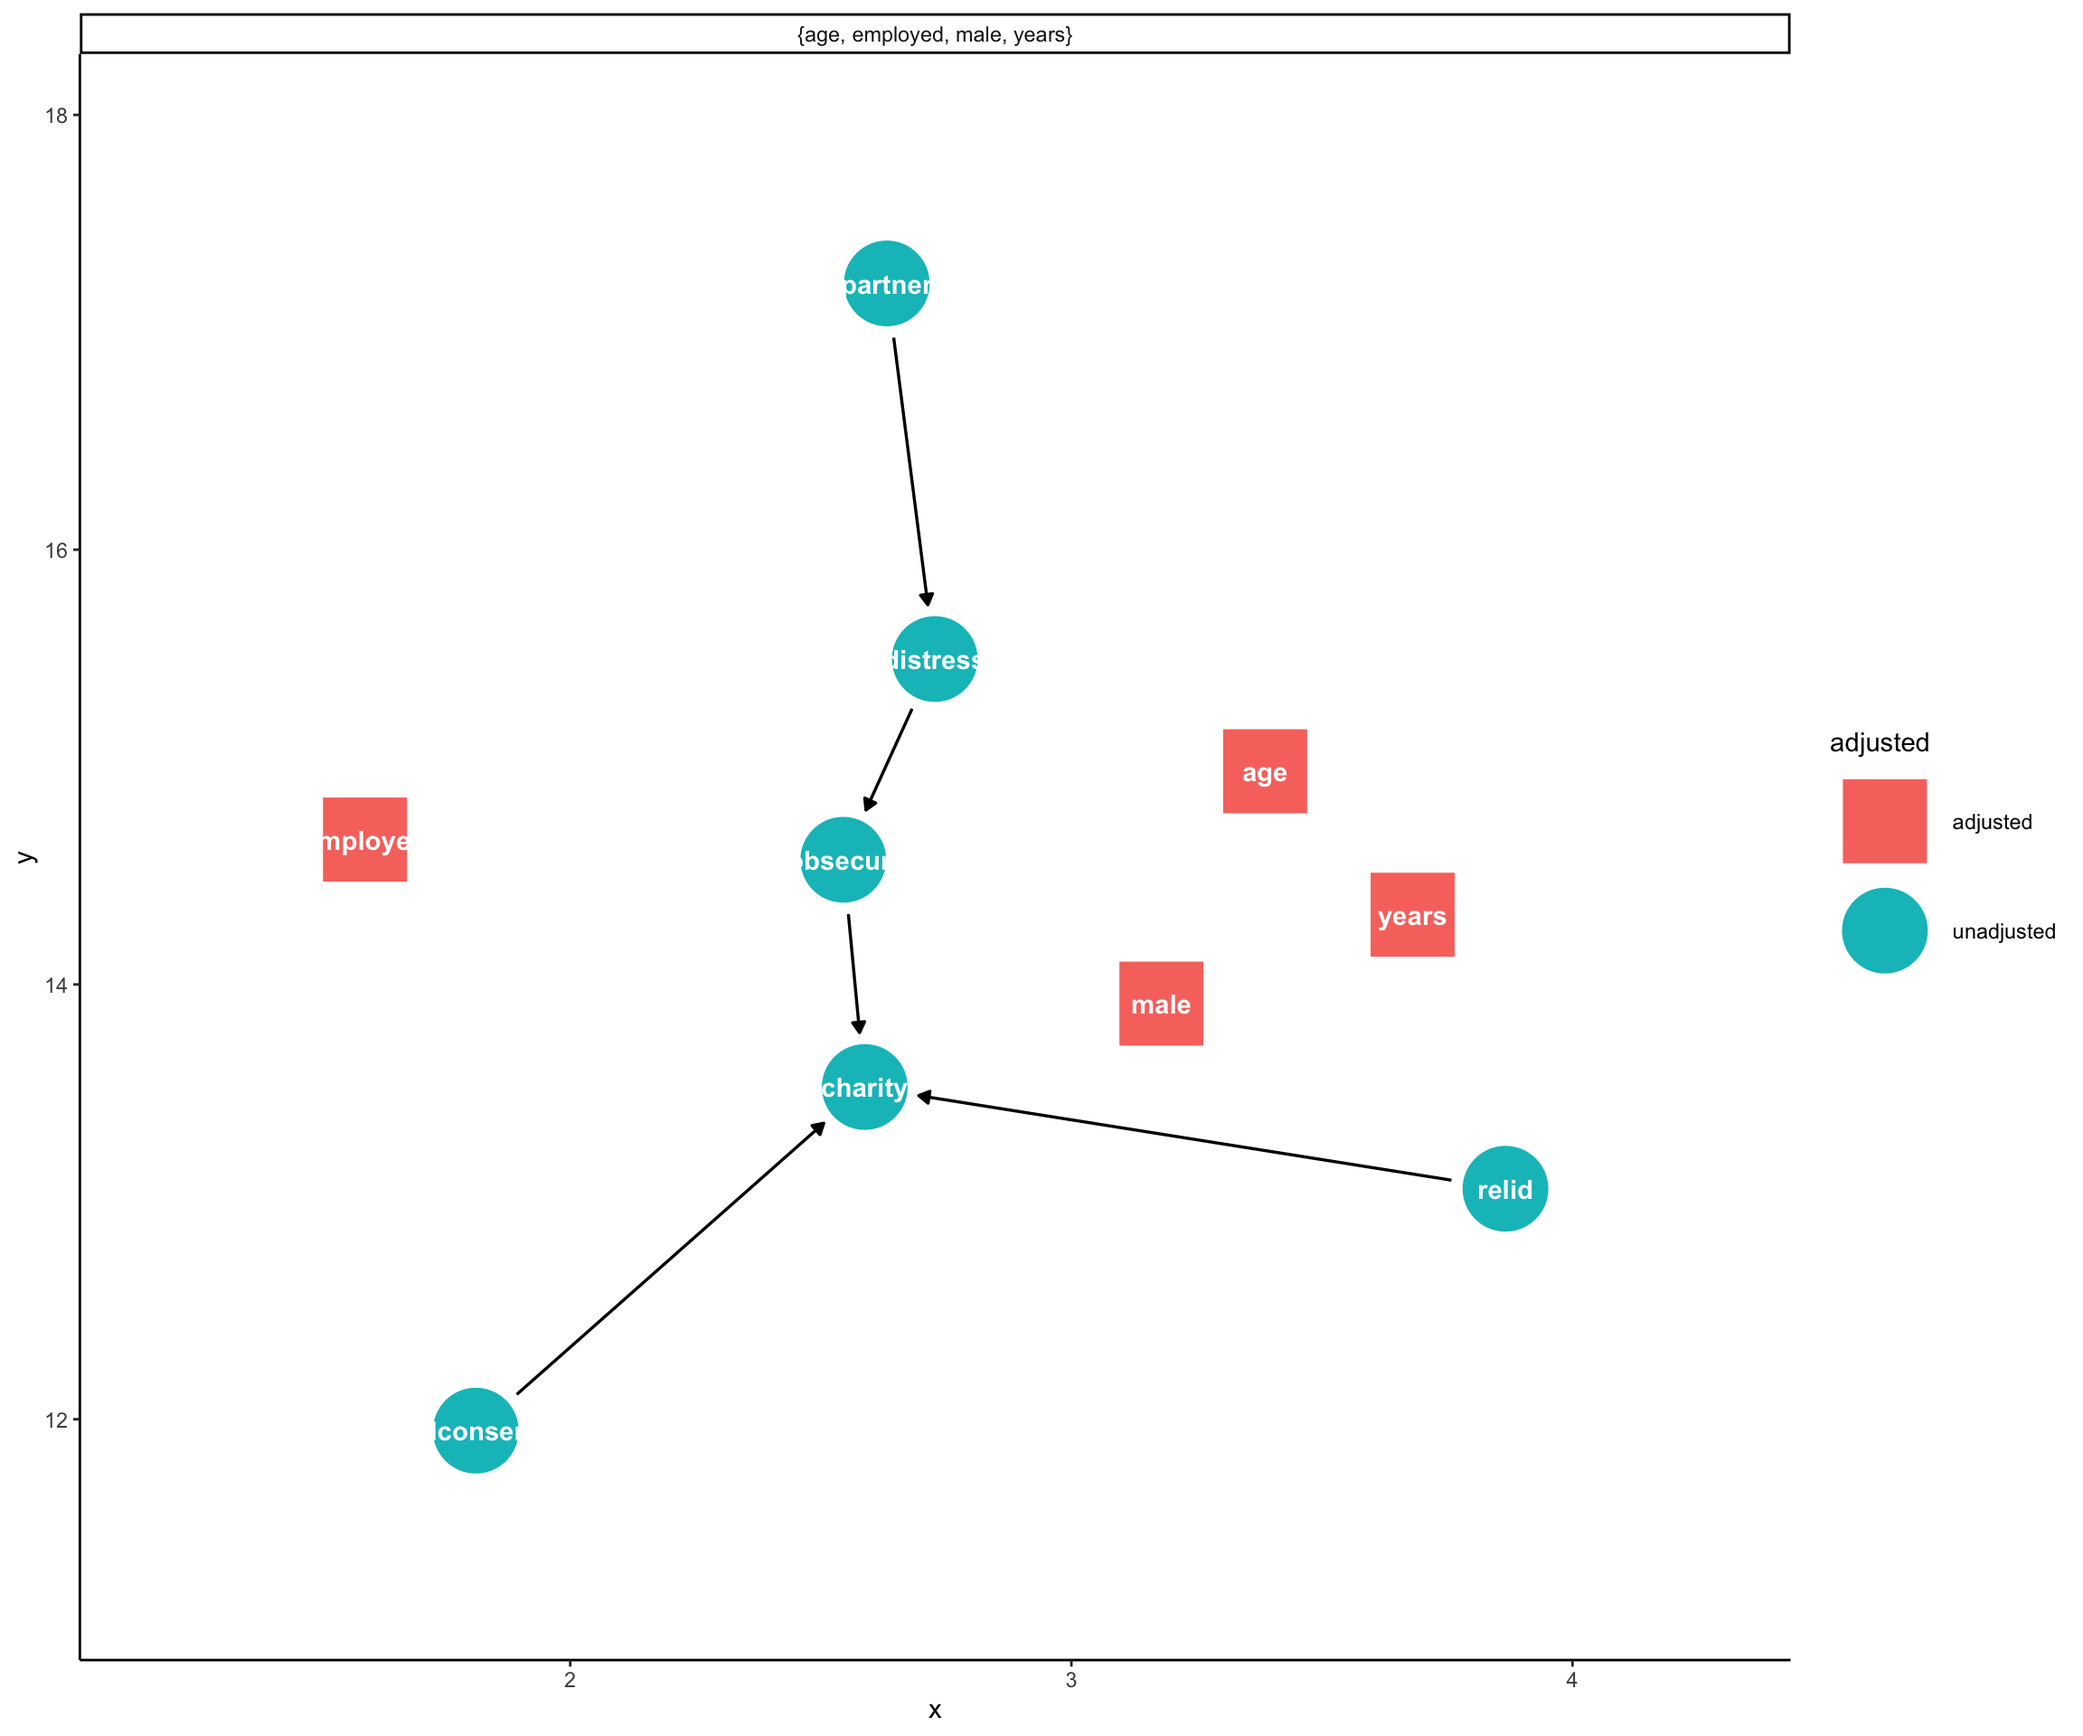
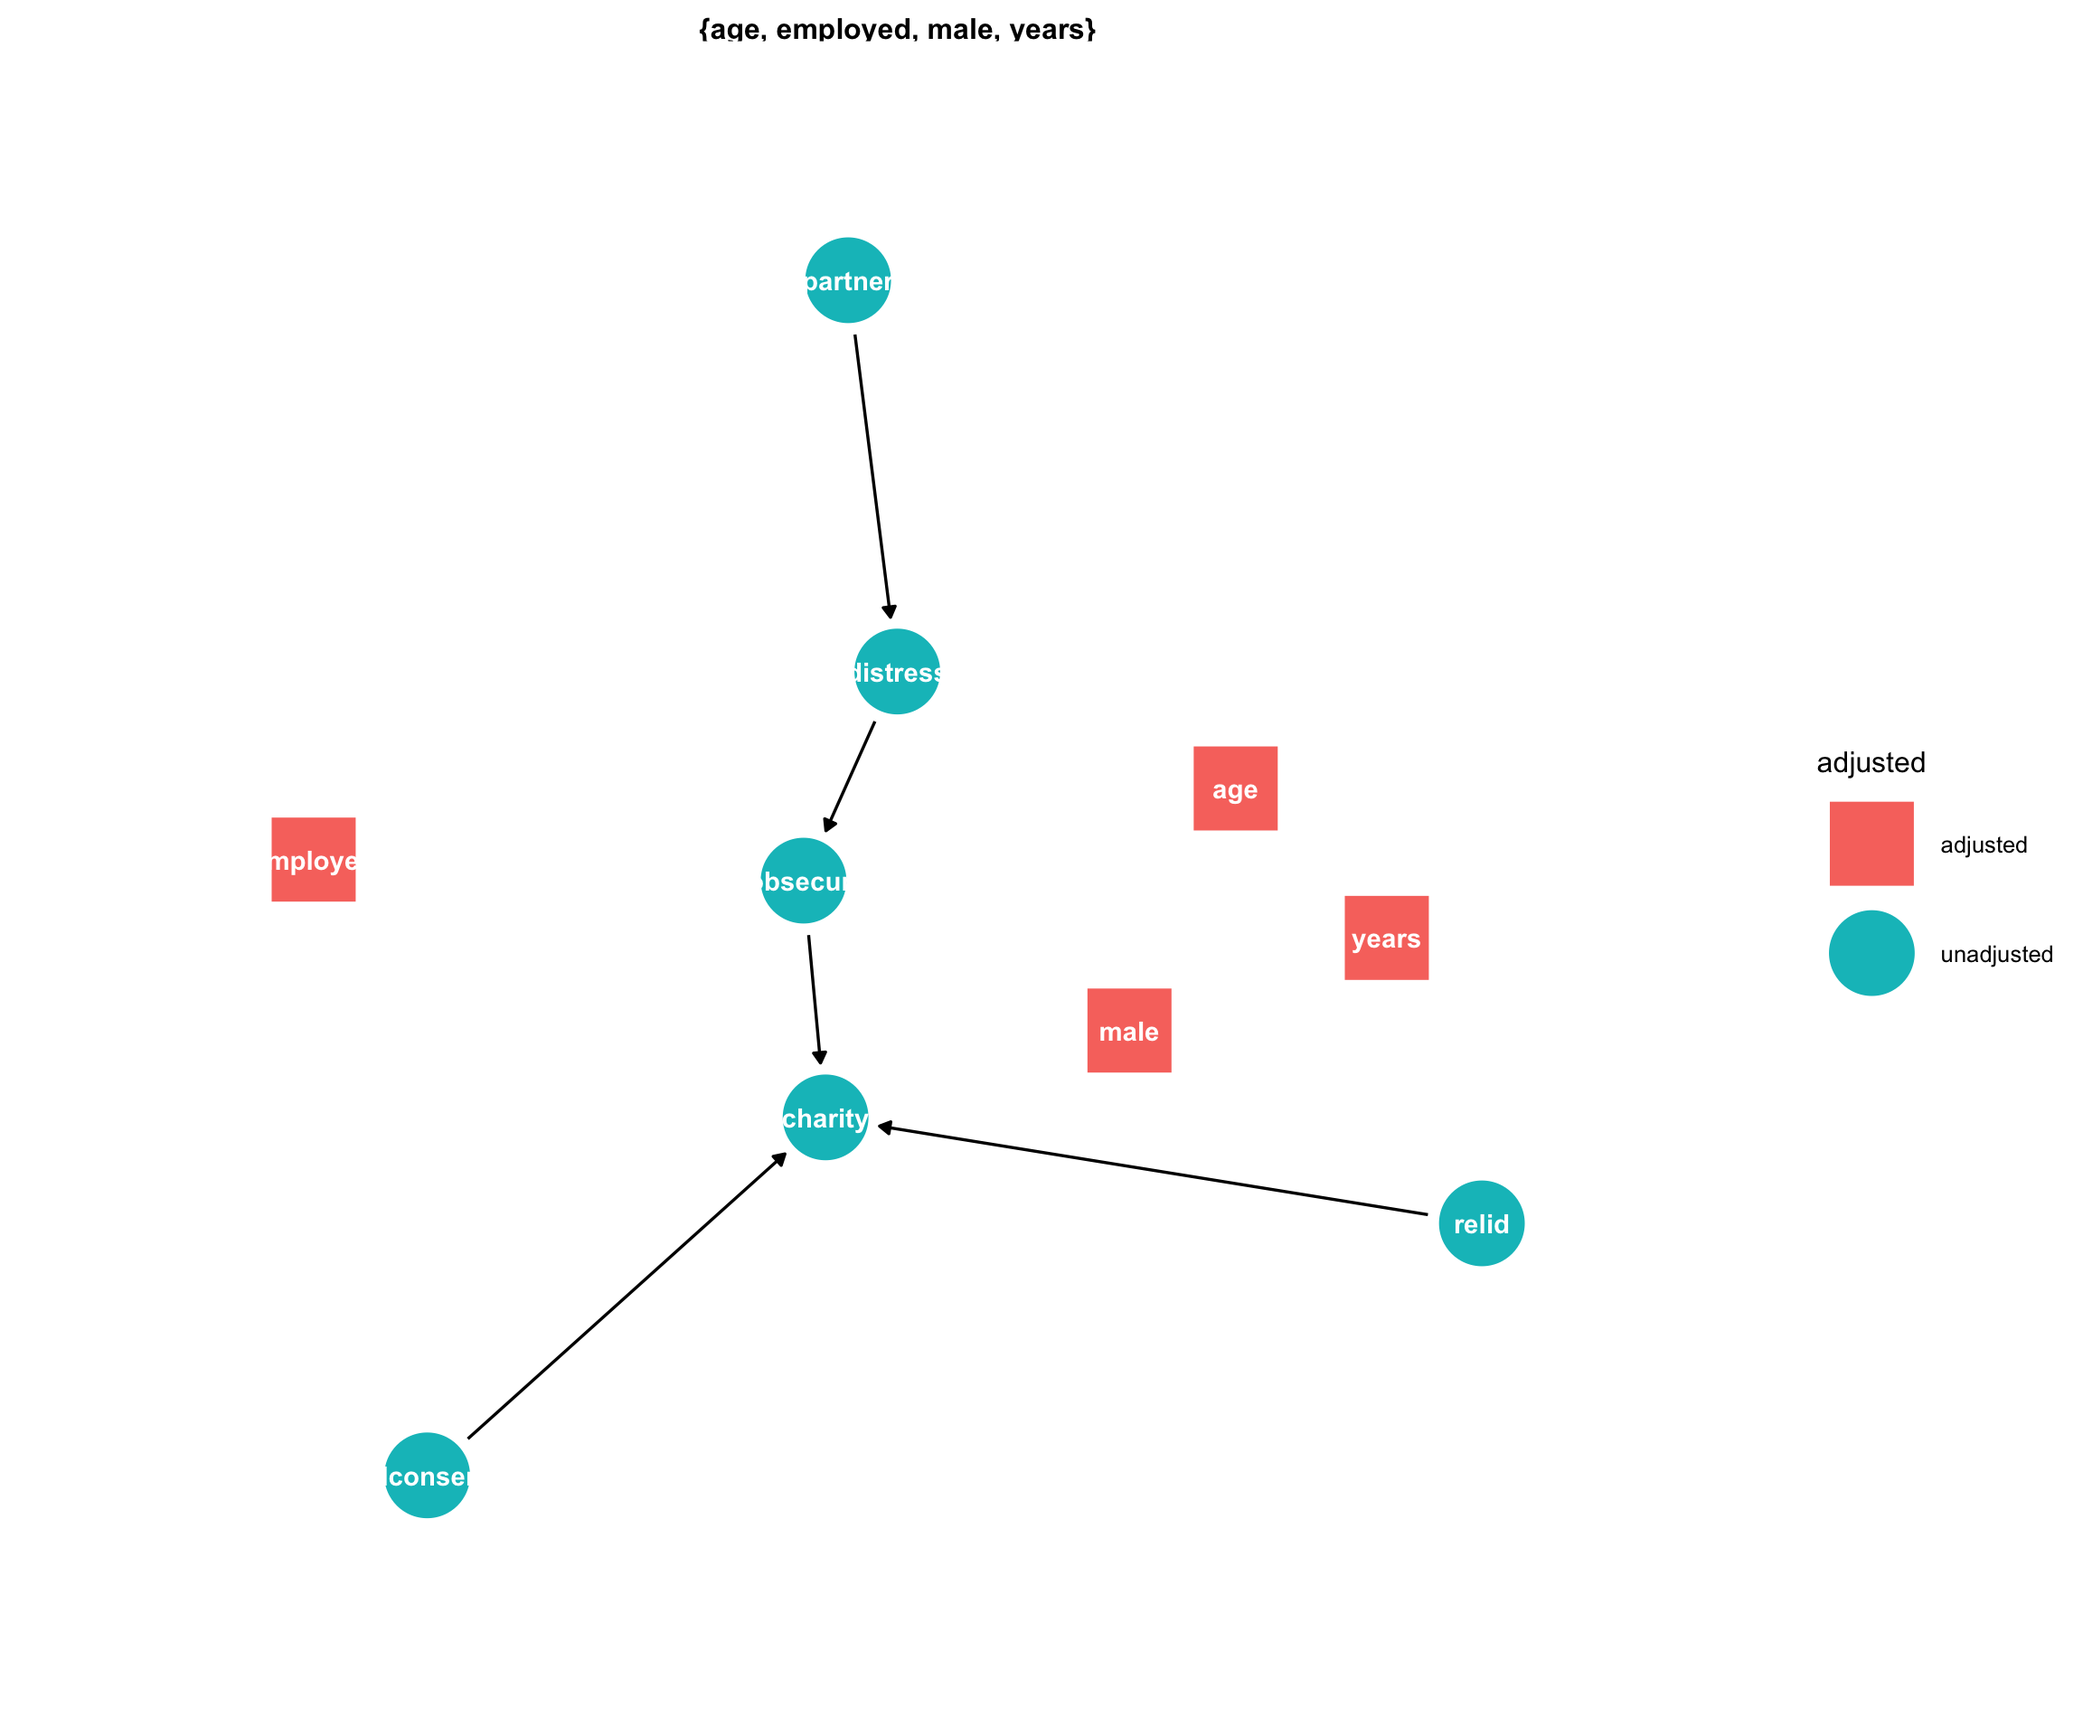
update

diff --git a/_posts/12_1/lecture_12.html b/_posts/12_1/lecture_12.html
@@ -1835,7 +1835,7 @@ Show code
   <span class='op'>)</span>,
   coords <span class='op'>=</span> <span class='va'>coords</span>
 <span class='op'>)</span>
-<span class='fu'>ggdag</span><span class='op'>(</span><span class='va'>bladder_dag</span>, text <span class='op'>=</span> <span class='cn'>FALSE</span>, use_labels <span class='op'>=</span> <span class='st'>"label"</span><span class='op'>)</span>
+<span class='fu'>ggdag</span><span class='op'>(</span><span class='va'>bladder_dag</span>, text <span class='op'>=</span> <span class='cn'>FALSE</span>, use_labels <span class='op'>=</span> <span class='st'>"label"</span>, node_size <span class='op'>=</span> <span class='fl'>20</span><span class='op'>)</span> <span class='op'>+</span> <span class='fu'>theme_dag_blank</span><span class='op'>(</span><span class='op'>)</span>
 </code></pre>
 </div>
 </details>
@@ -2492,7 +2492,7 @@ $ Age           &lt;dbl&gt; 38.82820, 39.70431, 41.03765, 42.036…</code></pre>
   <span class='op'>)</span> <span class='op'>%&gt;%</span>
   <span class='fu'><a href='https://rdrr.io/pkg/ggdag/man/tidy_dagitty.html'>tidy_dagitty</a></span><span class='op'>(</span>layout <span class='op'>=</span> <span class='st'>"nicely"</span><span class='op'>)</span>
 
-<span class='fu'>ggdag</span><span class='fu'>::</span><span class='fu'><a href='https://rdrr.io/pkg/ggdag/man/adjustment_sets.html'>ggdag_adjustment_set</a></span><span class='op'>(</span><span class='va'>dg</span><span class='op'>)</span>
+<span class='fu'>ggdag</span><span class='fu'>::</span><span class='fu'><a href='https://rdrr.io/pkg/ggdag/man/adjustment_sets.html'>ggdag_adjustment_set</a></span><span class='op'>(</span><span class='va'>dg</span><span class='op'>)</span> <span class='op'>+</span> <span class='fu'><a href='https://rdrr.io/pkg/ggdag/man/theme_dag_blank.html'>theme_dag_blank</a></span><span class='op'>(</span><span class='op'>)</span>
 </code></pre>
 </div>
 <p><img src="lecture_12_files/figure-html5/dag-1.png" width="1152" /></p>

diff --git a/docs/posts/12_1/index.html b/docs/posts/12_1/index.html
@@ -2500,7 +2500,7 @@ Show code
   <span class='op'>)</span>,
   coords <span class='op'>=</span> <span class='va'>coords</span>
 <span class='op'>)</span>
-<span class='fu'>ggdag</span><span class='op'>(</span><span class='va'>bladder_dag</span>, text <span class='op'>=</span> <span class='cn'>FALSE</span>, use_labels <span class='op'>=</span> <span class='st'>"label"</span><span class='op'>)</span>
+<span class='fu'>ggdag</span><span class='op'>(</span><span class='va'>bladder_dag</span>, text <span class='op'>=</span> <span class='cn'>FALSE</span>, use_labels <span class='op'>=</span> <span class='st'>"label"</span>, node_size <span class='op'>=</span> <span class='fl'>20</span><span class='op'>)</span> <span class='op'>+</span> <span class='fu'>theme_dag_blank</span><span class='op'>(</span><span class='op'>)</span>
 </code></pre>
 </div>
 </details>
@@ -3157,7 +3157,7 @@ $ Age           &lt;dbl&gt; 38.82820, 39.70431, 41.03765, 42.036…</code></pre>
   <span class='op'>)</span> <span class='op'>%&gt;%</span>
   <span class='fu'><a href='https://rdrr.io/pkg/ggdag/man/tidy_dagitty.html'>tidy_dagitty</a></span><span class='op'>(</span>layout <span class='op'>=</span> <span class='st'>"nicely"</span><span class='op'>)</span>
 
-<span class='fu'>ggdag</span><span class='fu'>::</span><span class='fu'><a href='https://rdrr.io/pkg/ggdag/man/adjustment_sets.html'>ggdag_adjustment_set</a></span><span class='op'>(</span><span class='va'>dg</span><span class='op'>)</span>
+<span class='fu'>ggdag</span><span class='fu'>::</span><span class='fu'><a href='https://rdrr.io/pkg/ggdag/man/adjustment_sets.html'>ggdag_adjustment_set</a></span><span class='op'>(</span><span class='va'>dg</span><span class='op'>)</span> <span class='op'>+</span> <span class='fu'><a href='https://rdrr.io/pkg/ggdag/man/theme_dag_blank.html'>theme_dag_blank</a></span><span class='op'>(</span><span class='op'>)</span>
 </code></pre>
 </div>
 <p><img src="lecture_12_files/figure-html5/dag-1.png" width="1152" /></p>
